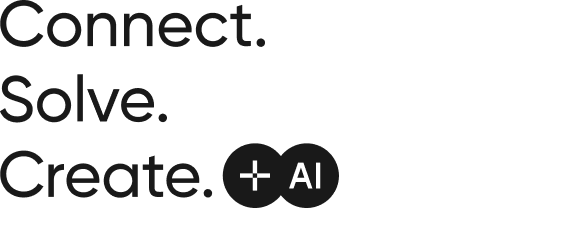
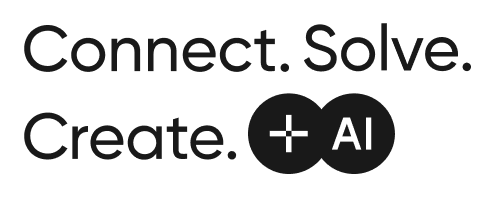
본문 2 완성

Changed region(s): [[0.0, 0.0, 0.9776, 0.9458]]

diff --git a/css/main.css b/css/main.css
@@ -95,21 +95,26 @@
 }
 /* 모바일 - 본문2 */
 .main2{
-    padding-top: 68px;
+    margin-top: 68px;
     padding-bottom: 100px;
     background-image: url(../img/main/info_bg.png);
     background-repeat: no-repeat;
     background-size: 130% auto;
-    background-position: bottom -30% center;
+    background-position: bottom -40% center;
 }
 .main2 .inner{
     margin: 0 20px;
 }
 .main2 .m2_title{
+    width: 205px;
     margin-bottom: 20px;
 }
 .main2 .m2_title img{
     width: 100%;
+    height: auto;
+}
+.main2 .m2_title img.ta{
+    display: none;
 }
 .main2 .m2_content{
     display: flex;
@@ -128,11 +133,11 @@
     border-bottom: 1px solid rgba(0,0,0,0.12);
 }
 .main2 .m2_box p{
+    margin: 0 10px;
     font-size: 13px;
     color: #666;
 }
 /* 모바일 - 본문3 */
-
 .main3{
     padding-top: 60px;
 }
@@ -244,6 +249,39 @@
         padding: 14px 36px;
         font-size: 15px;
     }
+    /* 테블릿 - 본문2 */
+    .main2{
+        background-size: 80% auto;
+        background-position: top -30% right -80%;
+    }
+    .main2 .inner{
+        margin: 0 40px;
+    }
+    .main2 .m2_title{
+        width: 440px;
+        padding-top: 80px;
+    }
+    .main2 .m2_title img.ta{
+        display: block;
+    }
+    .main2 .m2_title img.mo{
+        display: none;
+    }
+    .main2 .m2_content{
+        display: flex;
+        justify-content: space-between;
+    }
+    .main2 .m2_box{
+        width: 20%;
+        margin-bottom: 60px;
+    }
+    .main2 .m2_box h6{
+        padding: 12px;
+        font-size: 21px;
+    }
+    .main2 .m2_box p{
+        font-size: 17px;
+    }
     /* 테블릿 - 본문3 */
     .main3 .box3 .content{
         padding: 50px 30px;
@@ -291,6 +329,26 @@
         margin-top: 53px;
         padding: 16px 40px;
         font-size: 16px;
+    }
+    /* 테블릿 - 본문2 */
+    .main2{
+        background-size: 50% auto;
+        background-position: top 0 right 0;
+    }
+    .main2 .inner{
+        margin: 0 auto;
+        width: 1440px;
+    }
+    .main2 .m2_title{
+        width: 570px;
+        padding-top: 100px;
+    }
+    .main2 .m2_content{
+        justify-content: left;
+    }
+    .main2 .m2_box{
+        width: 10%;
+        margin-right: 50px;
     }
     /* 테블릿 - 본문3 */
     .main3 .inner{

diff --git a/main/main.html b/main/main.html
@@ -166,7 +166,10 @@
             </section>
             <section class="main2">
                 <div class="inner">
-                    <h1 class="m2_title"><img src="../img/main/main_title.png" alt=""></h1>
+                    <h1 class="m2_title">
+                        <img src="../img/main/main_title_mo.png" alt="" class="mo">
+                        <img src="../img/main/main_title.png" alt="" class="ta">
+                    </h1>
                     <div class="m2_content">
                         <div class="m2_box">
                             <h6>Connect</h6>
